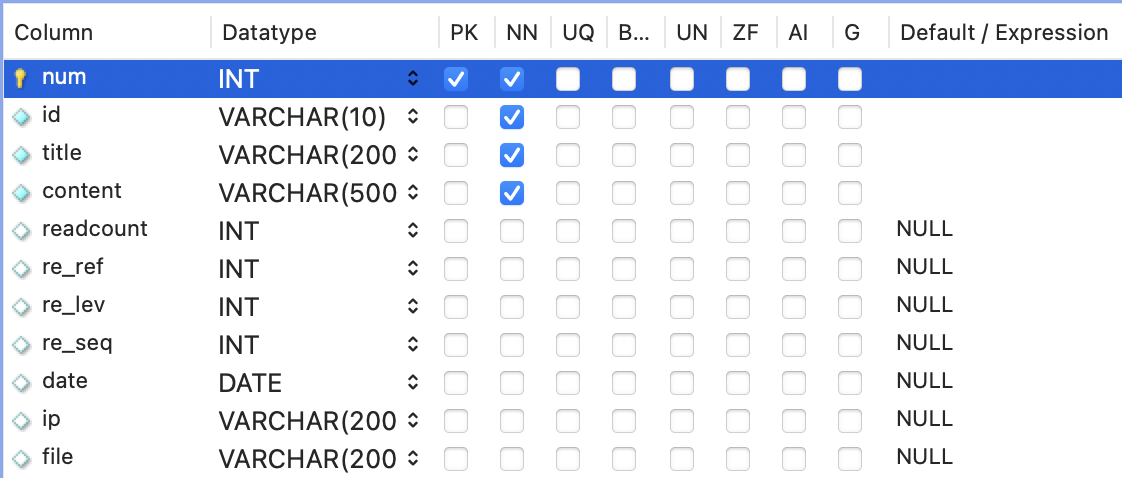
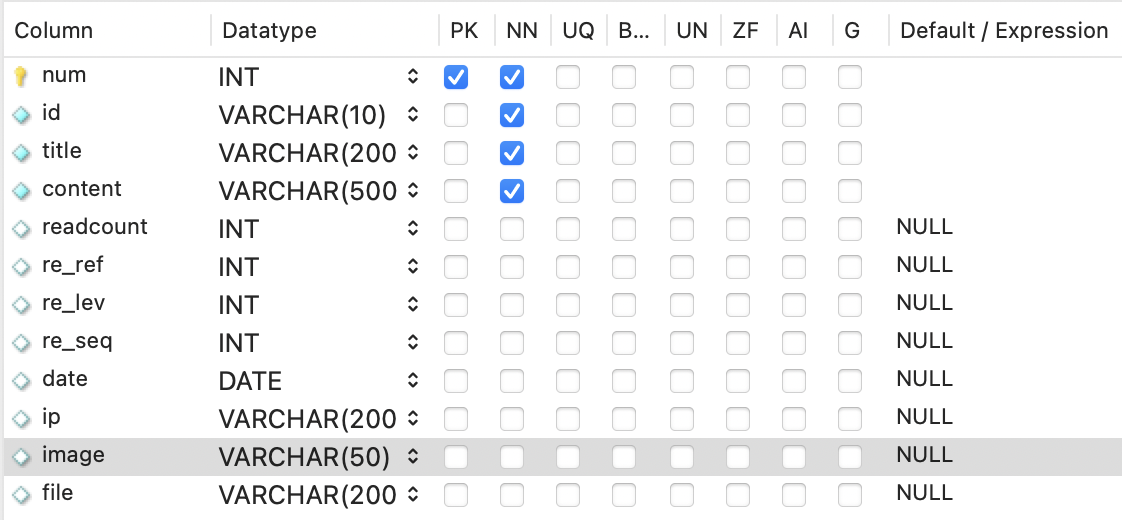
Cefa Project log 02

diff --git a/_posts/2022-03-06-cafe-project-02.md b/_posts/2022-03-06-cafe-project-02.md
@@ -83,6 +83,7 @@ CREATE TABLE `cafe_board` (
   `re_seq` int DEFAULT NULL,
   `date` date DEFAULT NULL,
   `ip` varchar(200) DEFAULT NULL,
+  `image` varchar(50) DEFAULT NULL,
   `file` varchar(200) DEFAULT NULL,
   PRIMARY KEY (`num`)
 );
@@ -100,6 +101,7 @@ CREATE TABLE `cafe_board` (
 * re_seq : 게시글 그룹에서 작성된 순서. 어떤 게시글에 답글이 달린 순서를 표시할 값이다.
 * date : 최초로 작성된 날짜. YYYY-MM-DD 형식
 * ip : 작성자의 `IP` 주소
+* image : 이미지 업로드 시 이미지 파일명
 * file : 파일 업로드 시 파일명
 
 ## 3. 댓글(comment)
